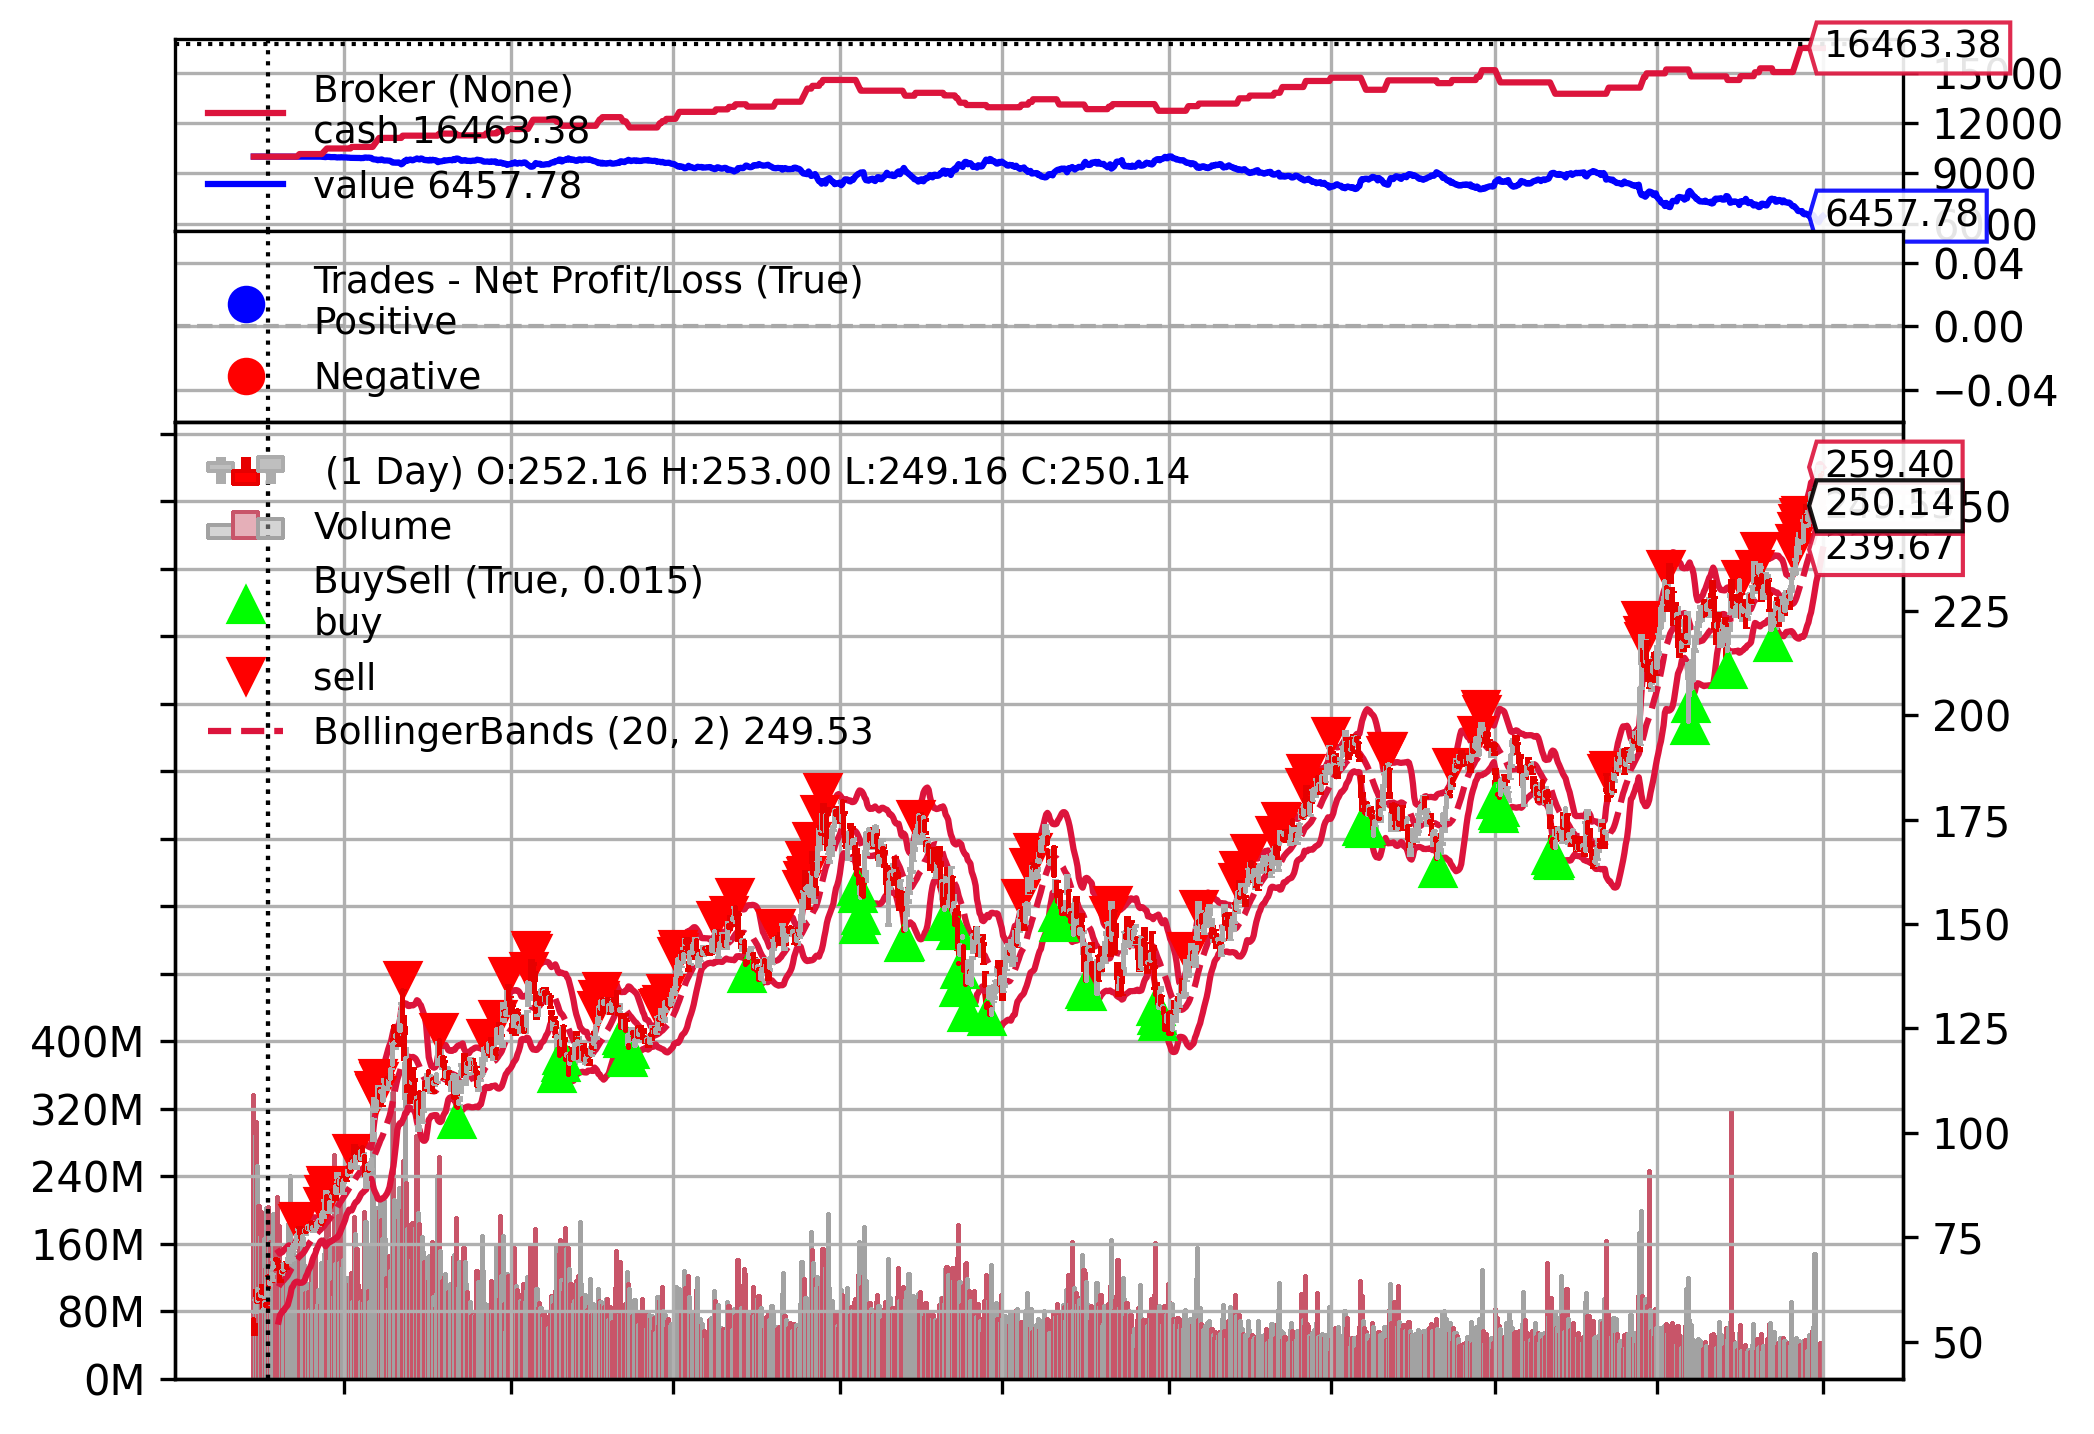
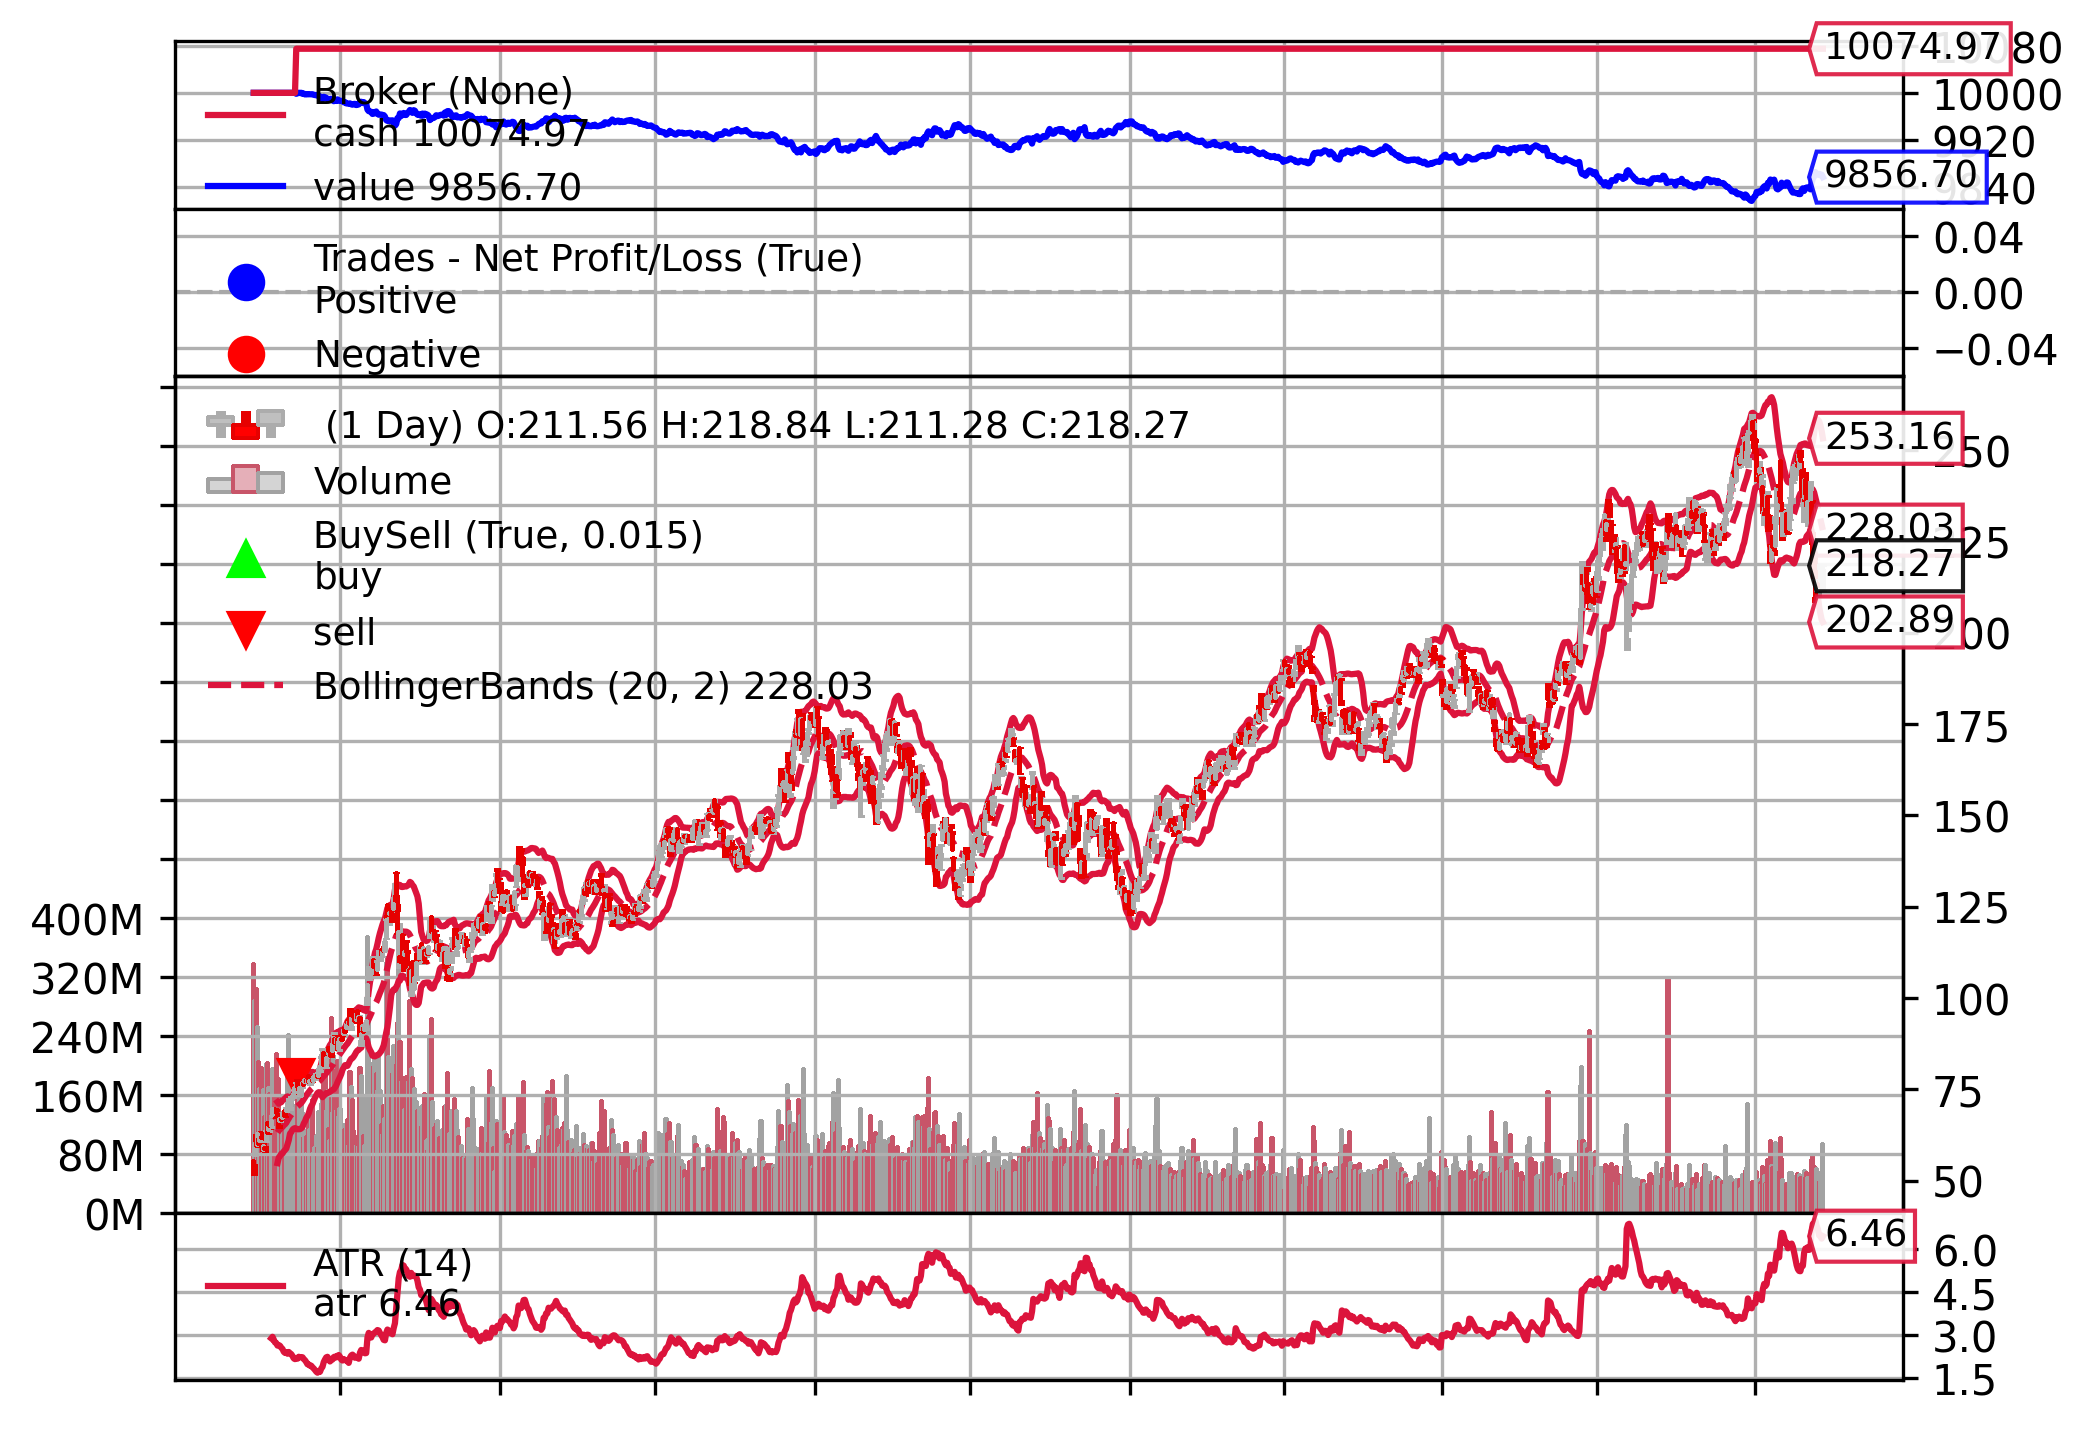
added performance metrics like sharpe ratio, max drawdown and win rate

diff --git a/backtesting/backtest_performance.py b/backtesting/backtest_performance.py
@@ -1,0 +1,222 @@
+'''
+1. implement Momentum & Mean Reversion strategies.
+2. Simulate trades based on historical data.
+3. Calculate profitability and risk metrics.
+'''
+
+import pymysql
+import pandas as pd
+import numpy as np
+import backtrader as bt
+import matplotlib.pyplot as plt
+from sqlalchemy import create_engine, text
+
+
+# db conn
+def connect_db():
+    return pymysql.connect(
+        host="localhost",
+        user="root",
+        password="test123",
+        database="hedgefund_db"
+    )
+
+
+# function to fetch historical stock data:
+def fetch_stock_data(ticker, start_date, end_date):
+    engine = create_engine("mysql+pymysql://root:test123@localhost/hedgefund_db")
+
+    # Debug: Print available date range
+    with engine.connect() as conn:
+        result = conn.execute(text(
+            f"SELECT MIN(date), MAX(date) FROM stock_prices WHERE ticker = '{ticker}'")).fetchall()
+        print(f"📊 Available data for {ticker}: {result}")
+
+    query = f"""
+        SELECT date, open, high, low, close, volume
+        FROM stock_prices
+        WHERE ticker = '{ticker}' AND date BETWEEN '{start_date}' AND '{end_date}'
+        ORDER BY date ASC;
+    """
+    df = pd.read_sql(query, con=engine)
+
+    if df.empty:
+        print(f"⚠ No data found for {ticker} between {start_date} and {end_date}")
+        return None
+
+    df['date'] = pd.to_datetime(df['date'])
+    df.set_index('date', inplace=True)
+    return df
+
+
+# Backtrader Strategy: Momentum Trading (SMA Crossover)
+class MomentumStrategy(bt.Strategy):
+    params = (
+        ("short_period", 50), ("long_period", 200), ("stop_loss", 0.02), ("take_profit", 0.05))
+
+    def __init__(self):
+        self.short_sma = bt.indicators.SimpleMovingAverage(self.data.close,
+                                                           period=self.params.short_period)
+        self.long_sma = bt.indicators.SimpleMovingAverage(self.data.close,
+                                                          period=self.params.long_period)
+        self.order = None  # Track open orders
+
+    def log(self, txt, dt=None):
+        """ Logging function for trade execution debugging """
+        dt = dt or self.datas[0].datetime.date(0)
+        print(f"{dt} - {txt}")  # 🛠 Fixed: Log method properly defined
+
+    def next(self):
+        if self.order:  # Prevent overlapping trades
+            return
+
+        # Stop-Loss & Take-Profit Logic (Exit before new entries)
+        if self.position:
+            if self.data.close[0] <= self.stop_price:
+                self.log(f"STOP LOSS HIT, SELLING at {self.data.close[0]}")
+                self.order = self.close()
+                return
+            elif self.data.close[0] >= self.take_profit_price:
+                self.log(f"TAKE PROFIT HIT, SELLING at {self.data.close[0]}")
+                self.order = self.close()
+                return
+
+        # Entry Logic (Buy)
+        if not self.position and self.short_sma[0] > self.long_sma[0] and self.short_sma[-1] <= \
+                self.long_sma[-1]:
+            self.log(f"BUY EXECUTED, Price: {self.data.close[0]}")
+            self.order = self.buy()
+            self.stop_price = self.data.close[0] * (1 - self.params.stop_loss)
+            self.take_profit_price = self.data.close[0] * (1 + self.params.take_profit)
+
+        # Entry Logic (Sell)
+        elif not self.position and self.short_sma[0] < self.long_sma[0] and self.short_sma[-1] >= \
+                self.long_sma[-1]:
+            self.log(f"SELL EXECUTED, Price: {self.data.close[0]}")
+            self.order = self.sell()
+
+
+# Backtrader Strategy: Mean Reversion (Bollinger Bands)
+class MeanReversionStrategy(bt.Strategy):
+    params = (("bollinger_period", 20), ("std_dev", 2), ("atr_period", 14), ("atr_filter", 1.5))
+
+    def __init__(self):
+        self.bb = bt.indicators.BollingerBands(period=self.params.bollinger_period,
+                                               devfactor=self.params.std_dev)
+        self.atr = bt.indicators.ATR(period=self.params.atr_period)  # ATR Indicator
+        self.order = None  # Track open orders
+
+    def next(self):
+        if self.order:  # Prevent overlapping trades
+            return
+
+        # ATR-based filter to reduce unnecessary trades
+        if self.atr[0] < self.params.atr_filter:
+            return  # Skip trade if volatility is too low
+
+        if not self.position and self.data.close[0] < self.bb.lines.bot[0]:  # Buy Signal
+            self.order = self.buy()
+        elif not self.position and self.data.close[0] > self.bb.lines.top[0]:  # Sell Signal
+            self.order = self.sell()
+
+
+# def next(self):
+#     if self.order:  # Skip if there's an open order
+#         return
+#
+#     # Check Stop Loss
+#     if self.position:
+#         if self.data.close[0] <= self.stop_price:
+#             self.log(f"STOP LOSS HIT, SELLING at {self.data.close[0]}")
+#             self.order = self.close()
+#             return
+#         elif self.data.close[0] >= self.take_profit_price:
+#             self.log(f"TAKE PROFIT HIT, SELLING at {self.data.close[0]}")
+#             self.order = self.close()
+#             return
+#
+#     # Entry Logic (Buy)
+#     if self.short_sma[0] > self.long_sma[0] and self.short_sma[-1] <= self.long_sma[-1]:
+#         self.log(f"BUY EXECUTED, Price: {self.data.close[0]}")
+#         self.order = self.buy()
+#         self.stop_price = self.data.close[0] * (1 - self.params.stop_loss)
+#         self.take_profit_price = self.data.close[0] * (1 + self.params.take_profit)
+#
+#     # Entry Logic (Sell)
+#     elif self.short_sma[0] < self.long_sma[0] and self.short_sma[-1] >= self.long_sma[-1]:
+#         self.log(f"SELL EXECUTED, Price: {self.data.close[0]}")
+#         self.order = self.sell()
+#
+
+# Performance Metrics Calculation
+def calculate_performance(cerebro, strategy):
+    # Extract portfolio value history
+    portfolio_values = np.array([cerebro.broker.getvalue() for _ in cerebro.run()])
+
+    # ✅ **Sharpe Ratio Calculation**
+    try:
+        sharpe_ratio = strategy.analyzers.sharpe.get_analysis().get('sharperatio', np.nan)
+    except KeyError:
+        sharpe_ratio = np.nan  # Handle missing data
+
+    # ✅ **Max Drawdown Calculation**
+    drawdown_analysis = strategy.analyzers.drawdown.get_analysis()
+    max_drawdown = drawdown_analysis.get('max', {}).get('drawdown', np.nan)
+
+    # ✅ **Win Rate Calculation**
+    trade_analysis = strategy.analyzers.trades.get_analysis()
+
+    total_trades = trade_analysis.get("total", {}).get("total", 0)
+    profitable_trades = trade_analysis.get("won", {}).get("total", 0)
+    win_rate = (profitable_trades / total_trades) if total_trades > 0 else 0
+
+    # ✅ Print Results
+    print("\n📊 **Performance Metrics**")
+    print(f"✅ **Sharpe Ratio:** {sharpe_ratio:.2f}")
+    print(f"📉 **Max Drawdown:** {max_drawdown:.2%}")
+    print(f"🏆 **Win Rate:** {win_rate:.2%}")
+
+
+# Backtest Runner with Analyzers
+def run_backtest(strategy_class, ticker, start_date="2010-03-23", end_date="2025-03-21"):
+    df = fetch_stock_data(ticker, start_date, end_date)
+    if df is None:
+        return
+
+    cerebro = bt.Cerebro()
+    data_feed = bt.feeds.PandasData(dataname=df)
+    cerebro.adddata(data_feed)
+    cerebro.addstrategy(strategy_class)
+
+    # Add Analyzers
+    cerebro.addanalyzer(bt.analyzers.TradeAnalyzer, _name="trades")
+    cerebro.addanalyzer(bt.analyzers.SharpeRatio, _name="sharpe")
+    cerebro.addanalyzer(bt.analyzers.DrawDown, _name="drawdown")
+
+    print(f"🚀 Running backtest for {ticker} using {strategy_class.__name__}...")
+
+    # Run Cerebro and extract the strategy instance
+    results = cerebro.run()
+    strat = results[0]  # Extract the first strategy instance ✅
+
+    # ✅ **Pass both `cerebro` and `strat` to `calculate_performance()`**
+    calculate_performance(cerebro, strat)  # 🛠 FIXED
+
+    # Generate plot
+    fig = cerebro.plot(style='candlestick')[0][0]
+    fig.savefig(f"backtest_results/{ticker}_{strategy_class.__name__}.png", dpi=300,
+                bbox_inches="tight")
+    print(f"📊 Backtest plot saved as backtest_results/{ticker}_{strategy_class.__name__}.png")
+
+    plt.show()
+
+
+# Run backtests for both strategies
+if __name__ == "__main__":
+    ticker = "AAPL"
+
+    # Run Momentum Strategy
+    run_backtest(MomentumStrategy, ticker)
+
+    # Run Mean Reversion Strategy
+    run_backtest(MeanReversionStrategy, ticker)
